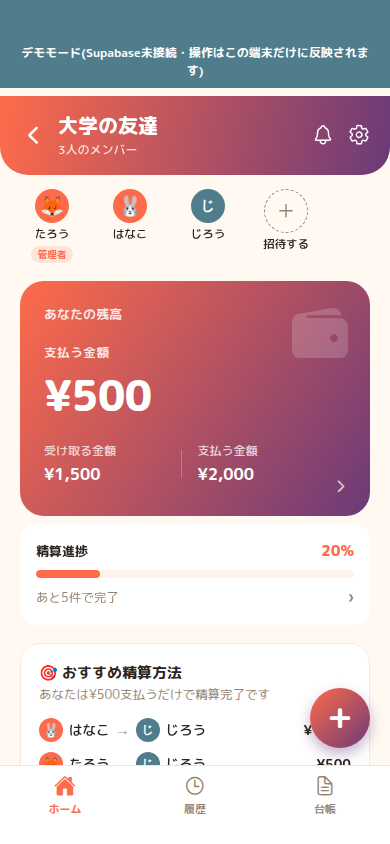
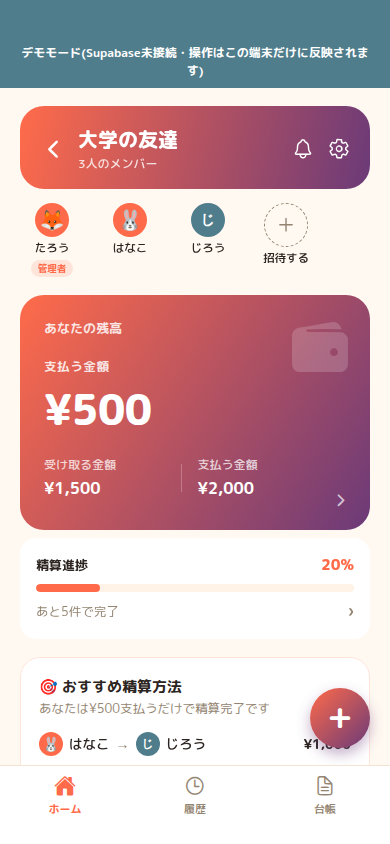
kashikari: ヘッダーを画面端まで塗り広げるバナーから、浮いたカードに変更
「これになってないよ。ふちが逆になっているまま」という指摘への対応。
スキーマ変更なし。

これまでは画面の端まで塗り広げて下の角だけ丸める「バナー」的な扱いに
していたが、送っていただいた参考画像を見比べ直したところ、実際は
左右にも余白を持たせた「浮いた1枚のカード」として四隅すべてを丸める
デザインだった(残高カード等、他のカードと同じ扱い)。

- marginHorizontal: -20(画面端まで塗り広げる指定)を削除し、他のカード
  と同じくリストの左右余白の内側に収まる形にした
- borderBottomLeftRadius/borderBottomRightRadiusのみだった指定を
  borderRadius(四隅すべて)に変更
- ステータスバー避けの余白を、帯の内側の余白(paddingTop)ではなく
  カードの外側の余白(marginTop)に変更

GroupScreen.tsx / DemoGroupScreen.tsx両方に適用。tsc --noEmit /
expo export --platform web(通常+デモモード)とも問題なし。
Playwrightで、四隅が丸く左右に余白のあるカードとして表示されることを
確認済み。

Claude-Session: https://claude.ai/code/session_016w6H5fipiVvbtfX7sgu87W

diff --git a/personal-side-projects/kashikari/mobile/src/screens/GroupScreen.tsx b/personal-side-projects/kashikari/mobile/src/screens/GroupScreen.tsx
@@ -480,15 +480,19 @@ const styles = StyleSheet.create({
   // 下だけでなく上にも出てしまうことがある。paddingTopも、以前の
   // headerRow(marginTop:44)で実績のあった値に戻し、必要以上に高く
   // ならないようにした。
+  // 「ふちが逆になっている」という指摘を受けて再修正: 画面の端まで
+  // 塗り広げて下だけ丸める「バナー」的な扱いをやめ、参考画像の通り
+  // 左右にも余白を持たせた「浮いた1枚のカード」として四隅すべてを
+  // 丸める形に変更した(残高カード等、他のカードと同じ扱いに揃えた)。
+  // ステータスバー避けの余白は、以前はpaddingTop(帯の内側の余白)で
+  // 持たせていたが、カード化にともないmarginTop(カードの外側の余白)
+  // に変更している。
   headerGradient: {
-    paddingTop: 44,
+    marginTop: 44,
+    paddingTop: 18,
     paddingHorizontal: 20,
     paddingBottom: 16,
-    borderTopLeftRadius: 0,
-    borderTopRightRadius: 0,
-    borderBottomLeftRadius: 28,
-    borderBottomRightRadius: 28,
-    marginHorizontal: -20,
+    borderRadius: 24,
     marginBottom: 14,
     overflow: 'hidden',
   },

diff --git a/personal-side-projects/kashikari/mobile/src/demo/DemoGroupScreen.tsx b/personal-side-projects/kashikari/mobile/src/demo/DemoGroupScreen.tsx
@@ -512,13 +512,17 @@ const styles = StyleSheet.create({
   // 本番のGroupScreen.tsxより控えめなpaddingTopにしている。
   // overflow:'hidden'を付けないと、上下非対称なborderRadiusが
   // LinearGradientで正しく反映されないことがあるため明示している。
+  // 「ふちが逆になっている」という指摘を受けて再修正: 画面端まで塗り
+  // 広げるバナー的な扱いをやめ、参考画像通り左右にも余白を持たせた
+  // 「浮いたカード」として四隅すべてを丸める形に変更した(GroupScreen.tsx
+  // と同じ)。デモバナー自体が既にステータスバー分の余白を持っている
+  // ため、ここでのmarginTopは小さめでよい。
   headerGradient: {
-    paddingTop: 14,
+    marginTop: 10,
+    paddingTop: 18,
     paddingHorizontal: 20,
     paddingBottom: 16,
-    borderBottomLeftRadius: 28,
-    borderBottomRightRadius: 28,
-    marginHorizontal: -20,
+    borderRadius: 24,
     marginBottom: 14,
     overflow: 'hidden',
   },
